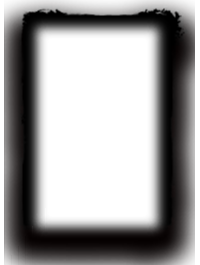
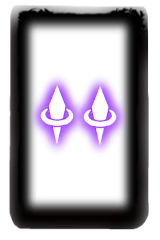
총알이 나가는 방향을 바라보게하기

Changed region(s): [[0.0, 0.0, 1.0, 1.0], [0.1875, 0.3208, 0.7812, 0.6417]]

diff --git a/Shooting/src/game/Enemy.java b/Shooting/src/game/Enemy.java
@@ -3,6 +3,7 @@ package game;
 import java.awt.Graphics;
 import java.awt.Image;
 import java.util.ArrayList;
+import java.awt.Graphics2D;
 
 public class Enemy extends GameObject {
 	
@@ -16,7 +17,8 @@ public class Enemy extends GameObject {
 	private int bulletCount = 5; //발사할 총알의 개수
 	private int bulletAngle = 10; //발사할 총알의 각도
 	
-	private int Pattern;
+	public int Pattern;
+	public int repeatCnt;
 	private boolean isPatternNow = false;
 	
 	EnemyBullet enBullet;
@@ -57,35 +59,64 @@ public class Enemy extends GameObject {
     
     public void Draw_EnemyBullet(Graphics g)
     {
+    	
     	for (int i=0; i<Enemy_Bullet_List.size(); ++i)
     	{
     		enBullet =Enemy_Bullet_List.get(i);
-    		g.drawImage(enBullet.img, enBullet.pos.x, enBullet.pos.y+25,
-    				enBullet.pos.x+25,enBullet.pos.y+55,903,113,919,142,null);
+    		double angle = enBullet.direction+5;
+    		System.out.println(angle);
+
+            Graphics2D g2d = (Graphics2D) g.create();
+            g2d.rotate(angle, enBullet.pos.x + enBullet.width / 2, enBullet.pos.y + enBullet.height / 2); // 이미지를 각도만큼 회전
+            g2d.drawImage(enBullet.img, enBullet.pos.x, enBullet.pos.y,
+                    enBullet.width, enBullet.height, null);
+
+
+            g2d.dispose();
+    		
    
     	}
     }
     
     public void BulletProcess() //총알 패턴들 모임
 	{
+		player = (Player) GameManager.getInstance().getPlayer();
+		double deltaX = player.posX - this.posX;
+	    double deltaY = player.posY - (this.posY + 35); // 총알 시작 위치에 대한 조정
+	    double startAngle = Math.atan2(deltaY, deltaX);
     	if(this.bulletType ==3)  //플레이어 방향으로 산탄
     	{
-    		player = (Player) GameManager.getInstance().getPlayer();
-    		double deltaX = player.posX - this.posX;
-    	    double deltaY = player.posY - (this.posY + 35); // 총알 시작 위치에 대한 조정
-    	    double startAngle = Math.atan2(deltaY, deltaX);
-    		if (System.currentTimeMillis() - lastAttackTime > attackSpeed) {
-                // 패턴: 부채꼴 모양으로 총알 발사
-                for (int i = 0; i < bulletCount; ++i) {
-                    int angle = i * bulletAngle - (bulletCount - 1) * bulletAngle / 2;
-                    int finalAngle = (int) Math.toDegrees(startAngle) + angle;
+    		switch(this.Pattern)
+    		{
+    		case 0:// 패턴: 부채꼴 모양으로 총알 발사
+        		if (System.currentTimeMillis() - lastAttackTime > attackSpeed) {
                     
-                    enBullet = new EnemyBullet(this.posX, this.posY + 35, 5, 1, finalAngle);
-                    Enemy_Bullet_List.add(enBullet);
-                }
+                    for (int i = 0; i < bulletCount; ++i) {
+                        int angle = i * bulletAngle - (bulletCount - 1) * bulletAngle / 2;
+                        int finalAngle = (int) Math.toDegrees(startAngle) + angle;
+                        
+                        enBullet = new EnemyBullet(this.posX, this.posY + 35, 5, 1, finalAngle);
+                        Enemy_Bullet_List.add(enBullet);
+                    }
 
-                lastAttackTime = System.currentTimeMillis();
-            }
+                    lastAttackTime = System.currentTimeMillis();
+                }
+    			break;
+    		case 1: // 원형 모양으로 발사
+    			   if (System.currentTimeMillis() - lastAttackTime > attackSpeed) {
+    			        // 패턴: 원형 모양으로 총알 발사
+    			        for (int i = 0; i < 60; ++i) { //100판
+    			            int finalAngle = (int) Math.toDegrees(startAngle) + i * (360 / 60);
+
+    			            enBullet = new EnemyBullet(this.posX, this.posY + 35, 5, 1, finalAngle);
+    			            Enemy_Bullet_List.add(enBullet);
+    			        }
+
+    			        lastAttackTime = System.currentTimeMillis();
+    			    }
+    			break;
+    		}
+
     	}
     	
     	else //아래방향으로 직진
@@ -108,7 +139,7 @@ public class Enemy extends GameObject {
 			
 			
 			//화면 밖으로 나가면 제거
-			if(enBullet.pos.y < 0 || enBullet.pos.y >800 ||enBullet.pos.x <0 || enBullet.pos.x>650)
+			if(enBullet.pos.y < 0 || enBullet.pos.y >800 ||enBullet.pos.x <0 || enBullet.pos.x>600)
 			{
 				Enemy_Bullet_List.remove(i);
 				System.out.println("총알제거");

diff --git a/Shooting/src/game/GameMain.java b/Shooting/src/game/GameMain.java
@@ -47,6 +47,8 @@ public class GameMain extends JFrame implements Runnable{
 	 private boolean isScrollPanelVisible = false; // 스크롤 패널이 표시되어야 하는지 여부
 	 private ScrollPanel scrollPanel; // 스크롤 패널
 	 public BossUI Ch1BossUI; 
+	 private Image scrollBgImage = new ImageIcon("resourses/sprites/ScrollBG.png").getImage();
+  
 	 
 	 private boolean isScrollGet =false; 
 	 
@@ -83,9 +85,9 @@ public class GameMain extends JFrame implements Runnable{
 
 	 
 	    
-	 SelectPanel SelectPanel_1 = new SelectPanel(345,300,190,260,1,this);
-	 SelectPanel SelectPanel_2 = new SelectPanel(540,300,190,260,2,this);
-	 SelectPanel SelectPanel_3 = new SelectPanel(735,300,190,260,3,this);
+	 SelectPanel SelectPanel_1 = new SelectPanel(385,300,160,260,1,this);
+	 SelectPanel SelectPanel_2 = new SelectPanel(555,300,160,260,2,this);
+	 SelectPanel SelectPanel_3 = new SelectPanel(735,300,160,260,3,this);
 	 
 
 	
@@ -398,7 +400,7 @@ public class GameMain extends JFrame implements Runnable{
 		{
 			case 0: //플레이어데미지 강화
 				player.playerDamage = player.playerDamage + 10;
-				System.out.println("능력 0");
+				System.out.println("플레이어 데미지 증가");
 				break;
 				
 			case 1: //플레이어 공격 속도 강화
@@ -406,15 +408,20 @@ public class GameMain extends JFrame implements Runnable{
 				{
 					player.attackSpeed = player.attackSpeed - 10;
 				}
-				System.out.println("능력 1");
+				System.out.println("플레이어 공격속도 업");
 				break;
 				
 			case 2: 
-				System.out.println("능력 2");
+				if(player.lineShot<2)
+				{
+					player.lineShot = player.lineShot + 1;
+				}
+				System.out.println("플레이어 직선 공격 추가");
 				break;
 				
 			case 3:
-				System.out.println("능력 3");
+				gameManager.setCoin(gameManager.getCoin()+10);
+				System.out.println("코인 더미");
 				break;
 				
 			case 4:
@@ -475,8 +482,9 @@ public class GameMain extends JFrame implements Runnable{
 			}
 			
 		}
+	
 		/*
-		if(canCh1BossSpawn == true &&    gameCnt<1000 && gameCnt%300 ==0) {
+		if(canCh1BossSpawn == true && gameCnt<3000 && gameCnt%300 ==0) {
 			en = new E_Wybern(1);
 			en = new E_Wybern(2);
 			en = new E_Wybern(3);
@@ -638,20 +646,20 @@ class ScrollPanel extends JPanel {
 		        "Ability 9",
 		        "Ability 10"       
 		    };
-
+	private Image bgImage;
     
     public ScrollPanel() {
     	setOpaque(false);
         randomImages = new ArrayList<>();
-        setPreferredSize(new Dimension(200, 200)); // 적절한 크기로 설정
-        
-  
+        bgImage = new ImageIcon("resourses/sprites/ScrollBG.png").getImage();
     }
 
     public void generateRandomImages() {
     	SwingUtilities.invokeLater(() -> {
         // 랜덤으로 이미지 선택 및 리스트에 추가
     	
+    	
+    		
     	randomImages.clear();
         Random random = new Random();
         
@@ -688,12 +696,14 @@ class ScrollPanel extends JPanel {
     @Override
     protected void paintComponent(Graphics g) {
         super.paintComponent(g);
+        
+        g.drawImage(bgImage, 0, 100, getWidth(), 450, this);
         // 리스트에 있는 이미지를 그림
-        int x = 15;
+        int x = 45;
         int y = 200;
         for (Image image : randomImages) {
             g.drawImage(image, x, y, this);
-            x += 190; // 이미지 사이의 간격 조절
+            x += 170; // 이미지 사이의 간격 조절
         }
     }
     public int[] returnScroll()

diff --git a/Shooting/src/game/EnemyBullet.java b/Shooting/src/game/EnemyBullet.java
@@ -1,6 +1,7 @@
 package game;
 
 import java.awt.Graphics;
+import java.awt.Graphics2D;
 import java.awt.Image;
 import java.awt.Point;
 import java.awt.Toolkit;
@@ -10,7 +11,7 @@ public class EnemyBullet extends GameObject {
 	int speed;
 	int type;
 	
-	private double direction;
+	double direction;
 	
 	EnemyBullet(int posX, int posY, int speed, int type, int angle)
 	{
@@ -21,7 +22,7 @@ public class EnemyBullet extends GameObject {
 		this.direction = Math.toRadians(angle);
 		if(this.type == 1)
 		{
-			this.img = tk.getImage("resourses/sprites/EFX.png");
+			this.img = tk.getImage("resourses/sprites/Fireball.png");
 		    this.width = 20;
 		    this.height = 30;
 		}
@@ -46,7 +47,14 @@ public class EnemyBullet extends GameObject {
 	}
 	public void draw(Graphics g)
 	{
-		g.drawImage(img, posX, posY, null);
+	    Graphics2D g2d = (Graphics2D) g.create();
+
+	    // 이미지를 각도에 따라 회전
+	    g2d.rotate(direction, pos.x + width / 2, pos.y + height / 2);
+
+	    g2d.drawImage(img, pos.x, pos.y, width, height, null);
+
+	    g2d.dispose();
 	}
 
 

diff --git a/Shooting/src/game/Player.java b/Shooting/src/game/Player.java
@@ -70,7 +70,7 @@ public class Player extends GameObject implements KeyListener {
         this.width = 35;
         this.height = 35;
     	this.attackSpeed = 300;
-    	this.lineShot = 2;
+    	this.lineShot = 1;
     	this.diaShot = 1;
   
     	this.bomb = 0;

diff --git a/Shooting/src/Unit/Ch1Boss.java b/Shooting/src/Unit/Ch1Boss.java
@@ -21,6 +21,7 @@ public class Ch1Boss extends Enemy{
         this.bulletType = 3;
         this.posX = 300;
         this.posY = 10;
+        this.Pattern = 1;
 	}
 
     public void draw(Graphics g) {
